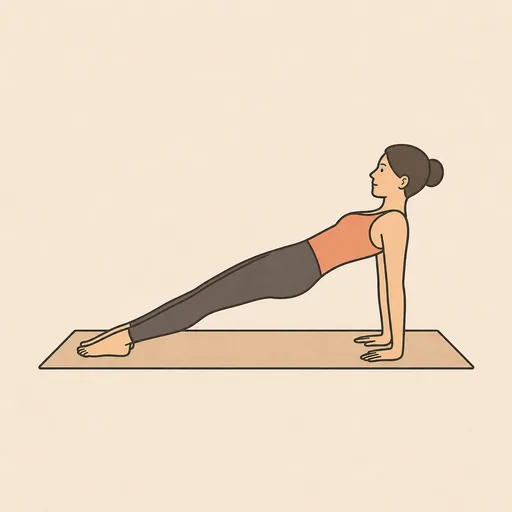
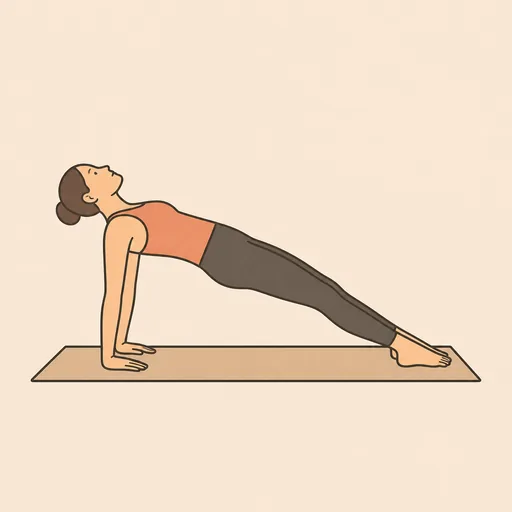
Version 0.14.1: zehn Übungsbilder neu eingebunden

Changed region(s): [[0.0625, 0.2812, 0.9375, 0.75]]

diff --git a/docs/GRAFIKLISTE.md b/docs/GRAFIKLISTE.md
@@ -247,7 +247,7 @@ Ergänzt am 2026-10-14 aus der [Übungsliste](UEBUNGEN-VORSCHLAEGE.md): Haltunge
 | G-165 | `yoga_45_fisch` | Fisch (Matsyasana) | Seite | 1 | Rückenlage mit gestreckten, geschlossenen Beinen. Die Unterarme liegen unter dem Körper am Boden, die Ellbogen stützen. Die Brust ist hoch zur Decke gewölbt, der Kopf nach hinten geneigt, nur der Scheitel berührt ganz leicht die Matte, ohne Gewicht. Blick nach hinten. |
 | G-166 | `yoga_46_beine_an_der_wand` | Beine an der Wand (Viparita Karani) | Seite | 1 | Eine Wand als senkrechte Linie am rechten Bildrand. Rückenlage auf der Matte, das Gesäß dicht an der Wand, die gestreckten Beine lehnen senkrecht an der Wand. Arme entspannt seitlich mit den Handflächen nach oben, Augen geschlossen, ruhiger Gesichtsausdruck. |
 | G-167 | `yoga_47_heldensitz` | Heldensitz (Virasana) | Seite | 1 | Kniestand mit geschlossenen Knien, die Unterschenkel liegen flach auf der Matte, die Füße etwas weiter als hüftbreit mit den Sohlen nach oben. Das Gesäß sitzt zwischen den Füßen auf der Matte. Oberkörper aufrecht, Hände auf den Oberschenkeln, Blick geradeaus. |
-| G-168 | `yoga_48_gedrehtes_dreieck` | Gedrehtes Dreieck (Parivrtta Trikonasana) | Front | 1 | Weite Schrittstellung mit gestreckten Beinen, der vordere Fuß (rechts im Bild) zeigt nach rechts. Der Oberkörper ist über das vordere Bein gebeugt und ZU IHM HIN GEDREHT: die Hand der Seite des HINTEREN Beins liegt außen neben dem vorderen Fuß am Boden, die andere Hand zeigt senkrecht zur Decke. Die Arme kreuzen damit die Körpermitte; der Rücken ist zum Betrachter gedreht, nicht die Brust wie beim normalen Dreieck. Blick zur oberen Hand. |
+| G-168 | `yoga_48_gedrehtes_dreieck` | Gedrehtes Dreieck (Parivrtta Trikonasana) | Schräg | 1 | Blick von schräg hinten auf die Figur. Weite Schrittstellung, beide Beine gestreckt, das RECHTE Bein vorn. Der Oberkörper ist waagerecht über das rechte Bein gebeugt und kräftig nach rechts gedreht: die LINKE Hand liegt flach am Boden AUSSEN neben dem RECHTEN Fuß, der RECHTE Arm zeigt senkrecht zur Decke. Der Betrachter sieht dadurch auf den Rücken und die rechte Schulter der Figur, nicht auf ihre Brust. Blick zur oberen Hand. Das ist NICHT das normale Dreieck, bei dem die Hand derselben Seite am Fuß liegt. |
 | G-169 | `yoga_49_gedrehter_winkel` | Gedrehter seitlicher Winkel (Parivrtta Parsvakonasana) | Front | 1 | Tiefer Ausfallschritt mit 90 Grad gebeugtem vorderem Knie, hinteres Bein gestreckt. Der Oberkörper ist zum vorderen Bein gedreht, der gegenüberliegende Ellbogen hakt außen am vorderen Knie ein, die Handflächen sind vor der Brust aneinandergelegt. Blick nach oben. |
 | G-170 | `yoga_50_gedrehter_stuhl` | Gedrehter Stuhl (Parivrtta Utkatasana) | Schräg | 1 | Tiefe Stuhlhaltung: Füße und Knie geschlossen, Knie stark gebeugt, Gesäß weit nach hinten. Der Oberkörper ist DEUTLICH zur Seite gedreht: der Ellbogen des oberen Arms liegt AUSSEN am gegenüberliegenden Knie, die Handflächen sind vor der Brust aneinandergelegt, die Unterarme bilden eine schräge Linie, die Schultern stehen übereinander. Blick über die obere Schulter nach oben. Beide Knie bleiben auf gleicher Höhe. |
 | G-171 | `yoga_51_goettin` | Göttin (Utkata Konasana) | Front | 1 | Sehr breiter Stand, Füße und Knie nach außen gedreht, die Knie tief gebeugt über den Zehen, Oberschenkel fast waagerecht. Oberkörper aufrecht. Beide Arme seitlich auf Schulterhöhe, die Ellbogen 90 Grad gebeugt, Unterarme senkrecht nach oben, Handflächen nach vorn. |
@@ -303,7 +303,7 @@ Ergänzt am 2026-10-14 nach einem Abgleich mit dem Buch: die Haltungen, die es f
 | G-207 | `yoga_64_stock` | Stock (Dandasana) | Seite | 1 | Aufrechter Sitz am Boden, beide Beine gestreckt und geschlossen nach vorn, die Fersen schieben weg, die Zehen zeigen nach oben. Die Hände liegen flach neben der Hüfte, Arme gestreckt, Rücken senkrecht, Blick geradeaus. |
 | G-208 | `yoga_65_liegende_hand_zum_zeh` | Liegende Hand zum Zeh (Supta Padangusthasana) | Seite | 1 | Rückenlage, ein Bein gestreckt am Boden, das andere gestreckt senkrecht nach oben gehoben. Die Hand derselben Seite hält den großen Zeh des gehobenen Beins mit Zeige- und Mittelfinger, die andere Hand liegt auf dem Oberschenkel des unteren Beins. Kopf am Boden. |
 | G-209 | `yoga_66_liegender_heldensitz` | Liegender Heldensitz (Supta Virasana) | Seite | 1 | Aus dem Heldensitz nach hinten gelegt: das Gesäß zwischen den Füßen am Boden, Unterschenkel flach neben den Oberschenkeln, die Knie geschlossen am Boden. Der Rücken liegt flach auf der Matte, die Arme sind über dem Kopf ausgestreckt. |
-| G-210 | `yoga_67_ohrendruck` | Knie zu den Ohren (Karnapidasana) | Seite | 1 | Aus dem Pflug: Schultern auf einer flach gefalteten Decke, Kopf auf der Matte, Becken über den Schultern. Die Beine sind STARK GEBEUGT: die Knie liegen links und rechts direkt neben den Ohren auf der Matte, Schienbeine und Fußrücken liegen flach auf der Matte hinter dem Kopf. Die Beine sind also nicht gestreckt wie beim Pflug. Die Fußrücken liegen flach auf, die Zehen zeigen vom Kopf weg. Arme gestreckt hinter dem Rücken am Boden. |
+| G-210 | `yoga_67_ohrendruck` | Knie zu den Ohren (Karnapidasana) | Seite | 1 | Die Figur ist eingerollt wie ein Ball: Schultern auf einer flach gefalteten Decke, Becken hoch über den Schultern, die Beine STARK GEBEUGT. Die Oberschenkel liegen nah am Gesicht, die KNIE liegen links und rechts DIREKT NEBEN DEN OHREN auf der Matte, die Schienbeine und Fußrücken liegen flach auf der Matte hinter dem Kopf, die Zehen zeigen vom Kopf weg. Die Knie zeigen also nach unten zur Matte, nicht zur Decke. Arme gestreckt hinter dem Rücken. |
 | G-211 | `yoga_68_schulterstand_ein_bein` | Schulterstand mit einem Bein (Eka Pada Sarvangasana) | Seite | 1 | Schulterstand auf einer flach gefalteten Decke, Rumpf senkrecht, die Hände stützen den Rücken. Ein Bein bleibt gestreckt senkrecht nach oben. Das andere ist gestreckt über den Kopf gesenkt, seine Zehen berühren hinter dem Kopf die Matte. FUSS des gesenkten Beins: die Zehen zeigen vom Kopf WEG, die Ferse zeigt nach oben; der Fuß ist nicht zum Kopf hin zurückgeknickt. |
 | G-212 | `yoga_69_kuhgesicht` | Kuhgesicht (Gomukhasana) | Front | 1 | Aufrechter Sitz am Boden, die Knie liegen genau übereinander, die Füße zeigen links und rechts neben der Hüfte nach hinten. Ein Arm greift von oben über die Schulter, der andere von unten hinter den Rücken, die Finger beider Hände haken zwischen den Schulterblättern ineinander. |
 

diff --git a/CHANGELOG.md b/CHANGELOG.md
@@ -4,6 +4,12 @@ Alle nennenswerten Änderungen am Projekt werden hier festgehalten.
 Format nach [Keep a Changelog](https://keepachangelog.com/de/1.1.0/), Versionierung nach [Semantic Versioning](https://semver.org/lang/de/).
 Einträge verweisen, wo möglich, auf die Nummer im [Ideenspeicher](docs/IDEENSPEICHER.md).
 
+## [0.14.1] – 2026-10-14
+
+### Geändert
+- Zehn Übungsbilder neu erzeugt und eingebunden. Richtig sind jetzt: Schultertippen im Stütz, umgekehrte Planke, Pflug, gedrehter Stuhl, Welpe, Stütz halten, Schulterstand mit einem Bein; Tuck Front Lever ist besser, aber noch nicht waagerecht.
+- Gedrehtes Dreieck und Knie zu den Ohren stimmen weiterhin nicht. Ihre Beschreibung in der Grafikliste ist noch einmal neu gefasst, mit Blick von schräg hinten und ausdrücklicher Angabe der linken und rechten Hand beziehungsweise der Knie neben den Ohren.
+
 ## [0.14.0] – 2026-10-14
 
 Anlass: FIT-Datei vom Laufband (2 Stunden, 9,4 km) mit 38 Verbindungsabbrüchen von je etwa 9 bis 10 Sekunden. Strecke und Rundenzeiten waren trotzdem richtig; die vier automatischen Pausen hatte der Nutzer selbst ausgelöst, indem er das Band anhielt.
